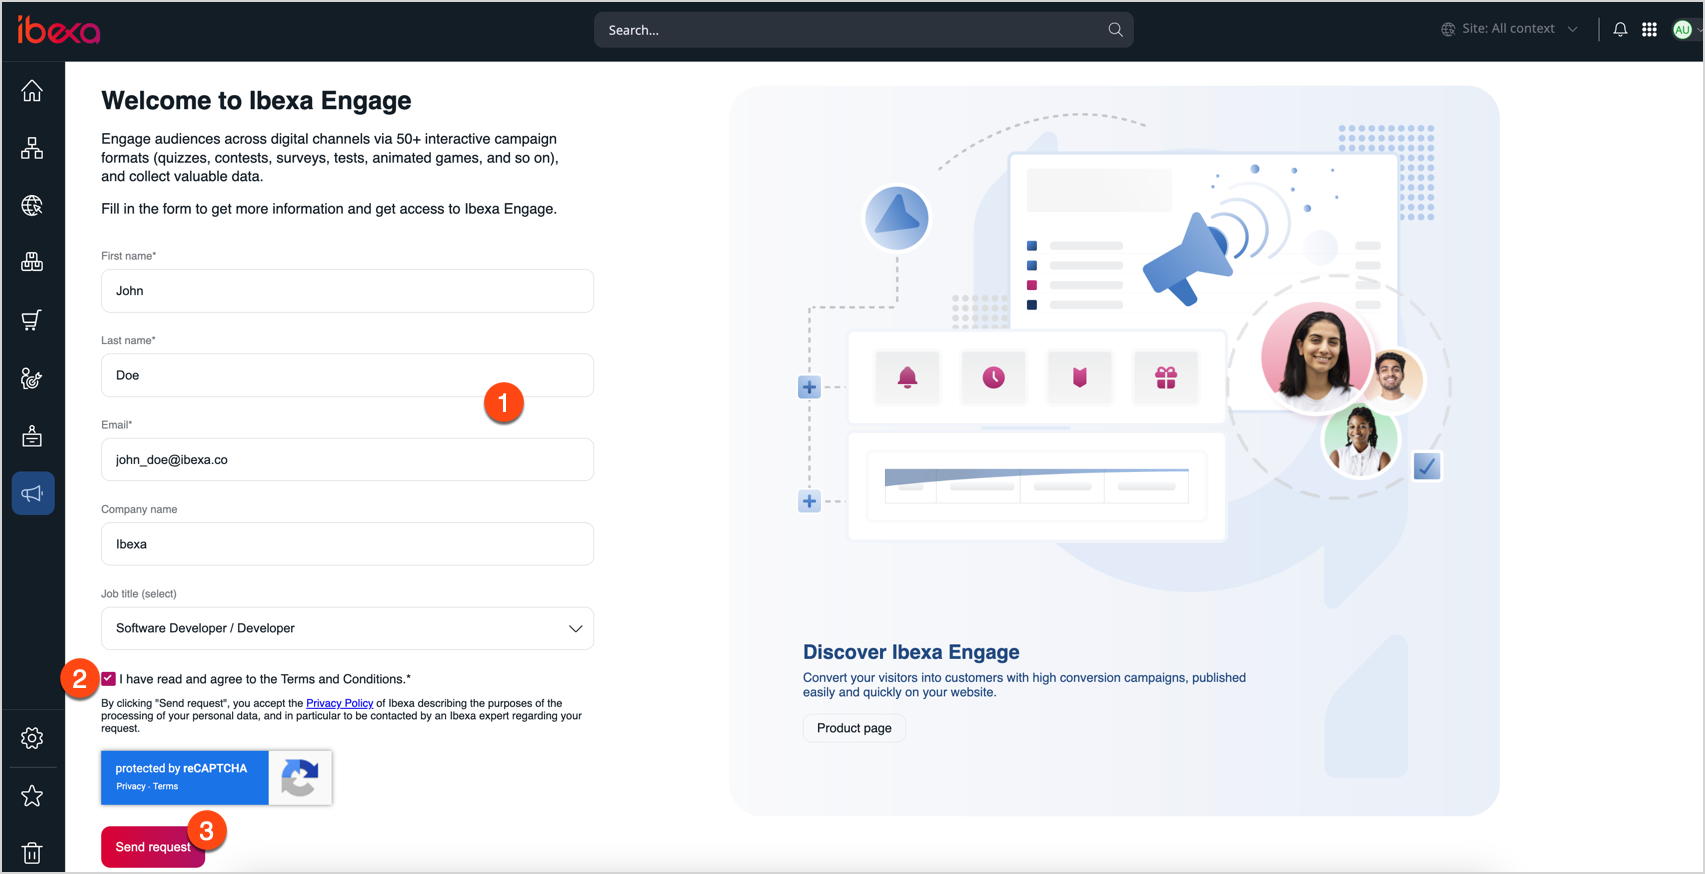
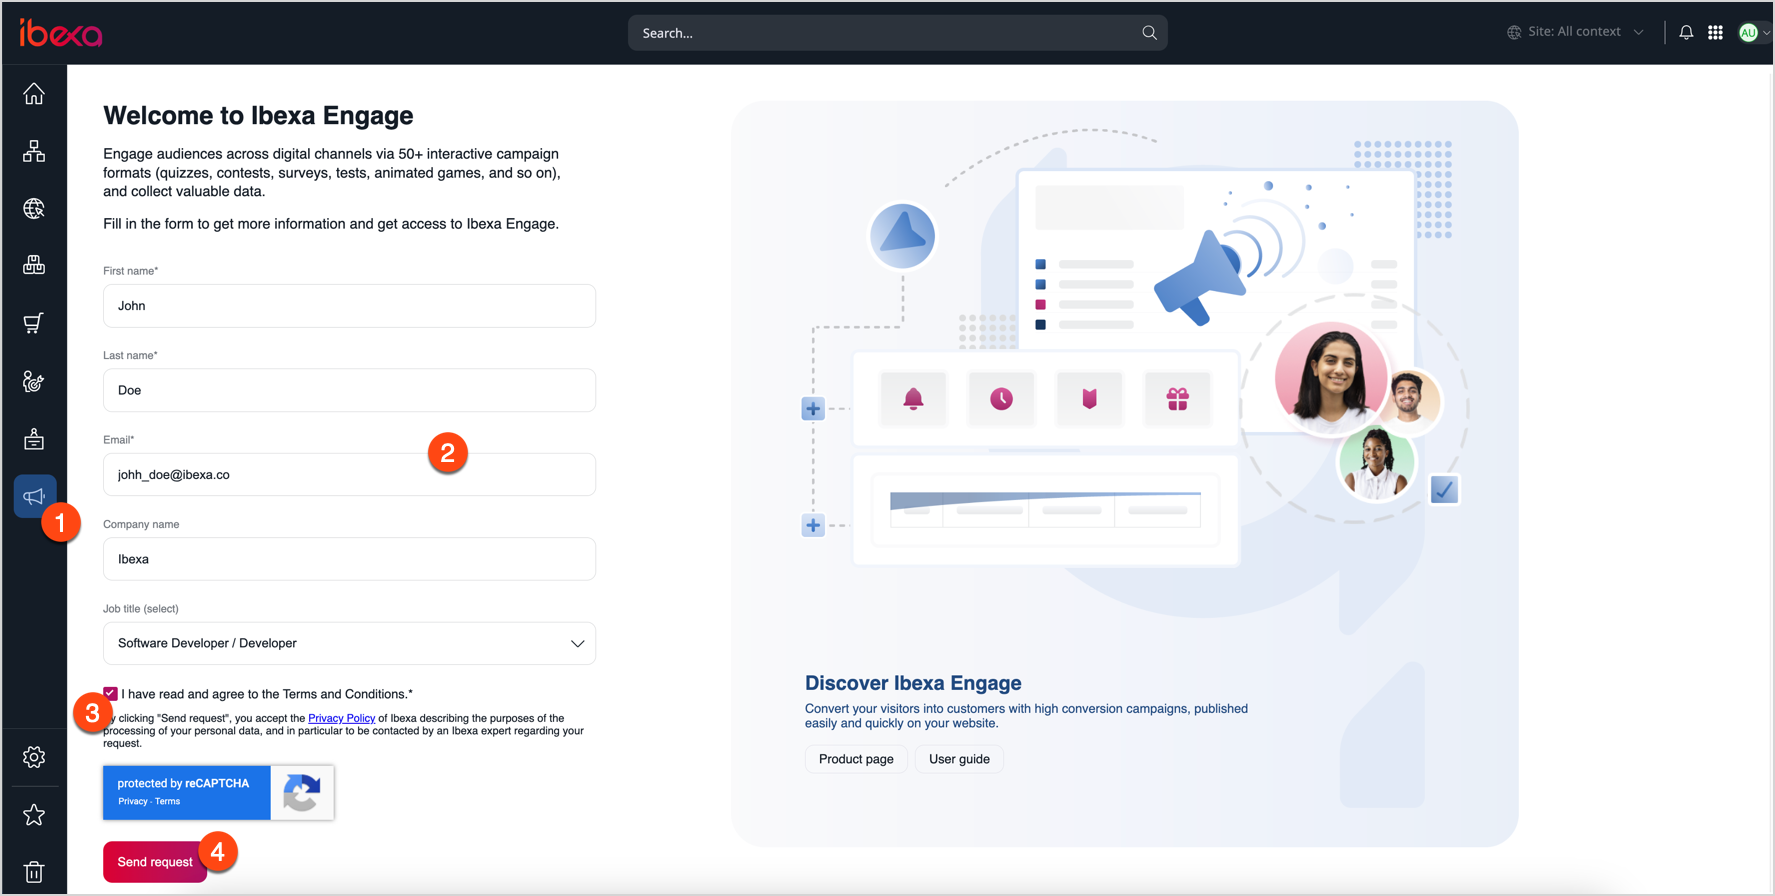
Updates on Ibexa Engage page

diff --git a/docs/ibexa_engage/ibexa_engage.md b/docs/ibexa_engage/ibexa_engage.md
@@ -13,16 +13,16 @@ You can use interactive content to build relationships and collect important dat
 
 To use [[= product_name_engage =]], you must make arrangements with [[= product_name_base =]] to define the initial configuration, and then get and set up a user account.
 
-1\. Go to the Back Office.
+1\. On the left menu panel, go to **Ibexa Engage**.
 
-2\. On the left panel, go to **Ibexa Engage**.
-
-3\. On the welcome page, provide the required information:
+2\. On the welcome page, provide the required information:
 
 - First and last name
 - Email address
 
-4\. Accept **Terms and Conditions**, and then click **Send request**.
+3\. Accept **Terms and Conditions**.
+
+4\. Click **Send request**.
 
 ![Welcome page - form](img/welcome_page_form.png "Welcome page - form")
 
